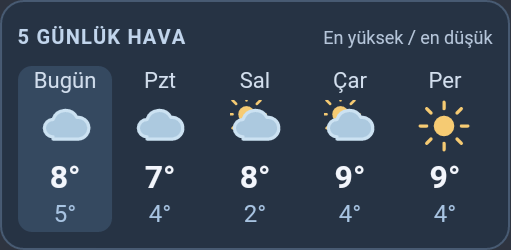
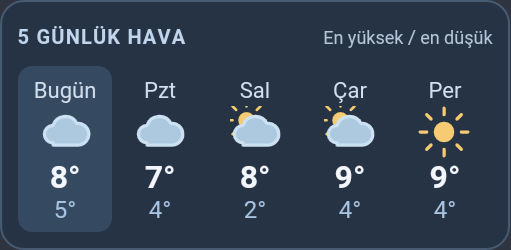
Balance forecast highlight padding and require spacing review

diff --git a/examples/panel-v2/office.css b/examples/panel-v2/office.css
@@ -203,7 +203,7 @@
 .pv2-forecast-header h2 { margin:0; font:700 10px/14px Arial,sans-serif; letter-spacing:.6px; color:#c2d6ed; }
 .pv2-forecast-note { font:9px/12px Arial,sans-serif; color:#b8c8dc; text-align:right; }
 .pv2-forecast-days { height:calc(100% - 24px); display:-webkit-flex; display:flex; }
-.pv2-forecast-day { width:14.2857%; min-width:0; display:-webkit-flex; display:flex; -webkit-flex-direction:column; flex-direction:column; -webkit-align-items:center; align-items:center; -webkit-justify-content:space-around; justify-content:space-around; border-radius:7px; }
+.pv2-forecast-day { width:14.2857%; min-width:0; display:-webkit-flex; display:flex; -webkit-flex-direction:column; flex-direction:column; -webkit-align-items:center; align-items:center; -webkit-justify-content:space-between; justify-content:space-between; padding:6px 0; border-radius:7px; }
 .pv2-forecast-today { background:#354960; }
 .pv2-forecast-weekday { font:11px/14px Arial,sans-serif; color:#d4e0ef; }
 .pv2-forecast-icon { display:block; width:26px; height:26px; }

diff --git a/docs/regression-checklist.md b/docs/regression-checklist.md
@@ -52,6 +52,7 @@ brightness setting of zero, or a desktop preview alone is not acceptance.
 | U05 | Each interactive control sounds once immediately on finger-down when sound is enabled; disabled/blank areas stay silent. Sound setting works and persists. No extra sound after release. |
 | U06 | Tap triggers once, long press opens settings once without also toggling the lamp. Fast/normal/long timing works without a second tap. Dragging/cancelling a gesture does not trigger a stray action. |
 | U07 | Closing dialogs uses the X icon, clears selection/focus outlines, makes feedback sound and restores touch. No misleading “Gönderiliyor” label or sound control inside a lamp dialog. |
+| U08 | Selected highlights, cards and buttons use consistent spacing. Compare top/bottom and left/right insets, mixed-size text/icon alignment and adjacent selected/unselected states at the actual device viewport. Record intentional optical offsets; do not hide uneven padding behind distributed flex spacing. |
 
 ## Home Assistant controls
 

diff --git a/AGENTS.md b/AGENTS.md
@@ -14,3 +14,14 @@ alone cannot prove physical behavior. Never commit private configuration or
 unrelated working-tree changes. Documentation-only edits require link/diff checks,
 not household actuation or a new hardware acceptance run; they must not claim a
 new runtime validation.
+
+## Required visual spacing review
+
+For every UI edit, inspect spacing as part of acceptance, not as optional polish.
+Use the existing 4/8/12/16 px rhythm and equal top/bottom and left/right insets for
+selected indicators, cards, chips and buttons unless intentional asymmetry is
+documented. Keep explicit inner padding; do not rely on distributed flex space
+to imply balanced padding for mixed font sizes. Check both line-box bounds and
+optical text/icon alignment, selected and unselected states, and adjacent cards.
+Verify on the installed device at its actual viewport before claiming visual
+acceptance. Missing screenshots or physical checks remain PENDING.
